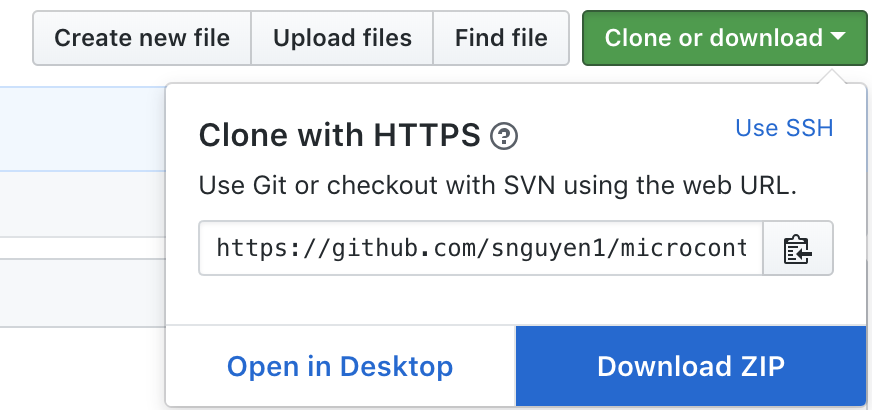
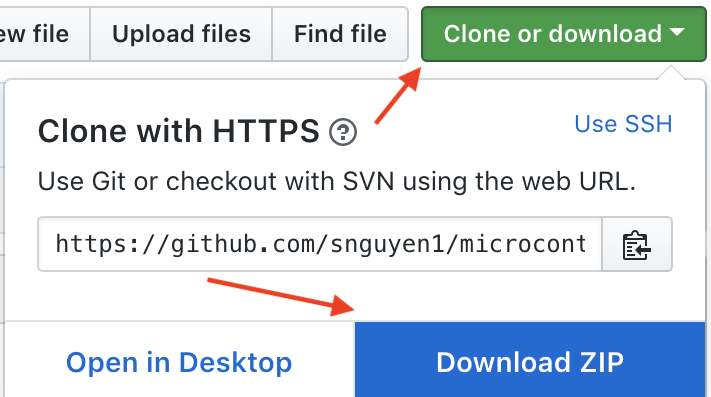
remove github user instruction

Changed region(s): [[0.0, 0.2116, 1.0, 1.0], [0.0, 0.0, 1.0, 0.4836], [0.8045, 0.272, 0.9592, 0.3325]]

diff --git a/README.md b/README.md
@@ -13,8 +13,8 @@ Instructors/Contributors
 - Michael S. Williamson [[Github](https://github.com/fightingtexasaggie)]
 - Mark Besonen 
 - Mikell Smith
-- Joe Holland
-- Son Nguyen
+- Joe Holland [[Github](https://github.com/joevholland)]
+- Son Nguyen [[Github](https://github.com/snguyen1)]
 
 ---
 
@@ -29,35 +29,13 @@ Instructors/Contributors
 
 <!-- /TOC -->
 
-
 # Preparation before the Workshop
-
+If you are a workshop participant, please download the lesson material and follow the instruction before heading to the workshop.
 ## Tutorial Download
 ---------------------
 
-If you have a GitHub account, it is probably most convenient if you clone or
-fork the GitHub repository. You can clone the repository by running:
-
-```bash
-git clone https://github.com/snguyen1/microcontroller-workshop-1.git
-```
-
- If you are not familiar with git, you can download the repository as a .zip file by heading over
-to the GitHub repository (https://github.com/snguyen1/microcontroller-workshop-1) in
-your browser and click the green “Download” button in the upper right.
+ If you are not familiar with git, you can download the repository as a .zip file by clicking the green “Download” button in the upper right at the top of this page (https://github.com/snguyen1/microcontroller-workshop-1). 
 ![](images/github-download.png)
-
-Please note that we may add and improve the material until shortly before the
-tutorial session, and we recommend you to update your copy of the materials one
-day before the tutorials. If you have an GitHub account and cloned the
-repository via GitHub, you can sync your existing local repository with:
-
-```bash
-git pull origin master
-```
-
-If you don’t have a GitHub account, you may have to re-download the .zip
-archive from GitHub.
 
 ## Installation of Microcontroller Software and Drivers
 
